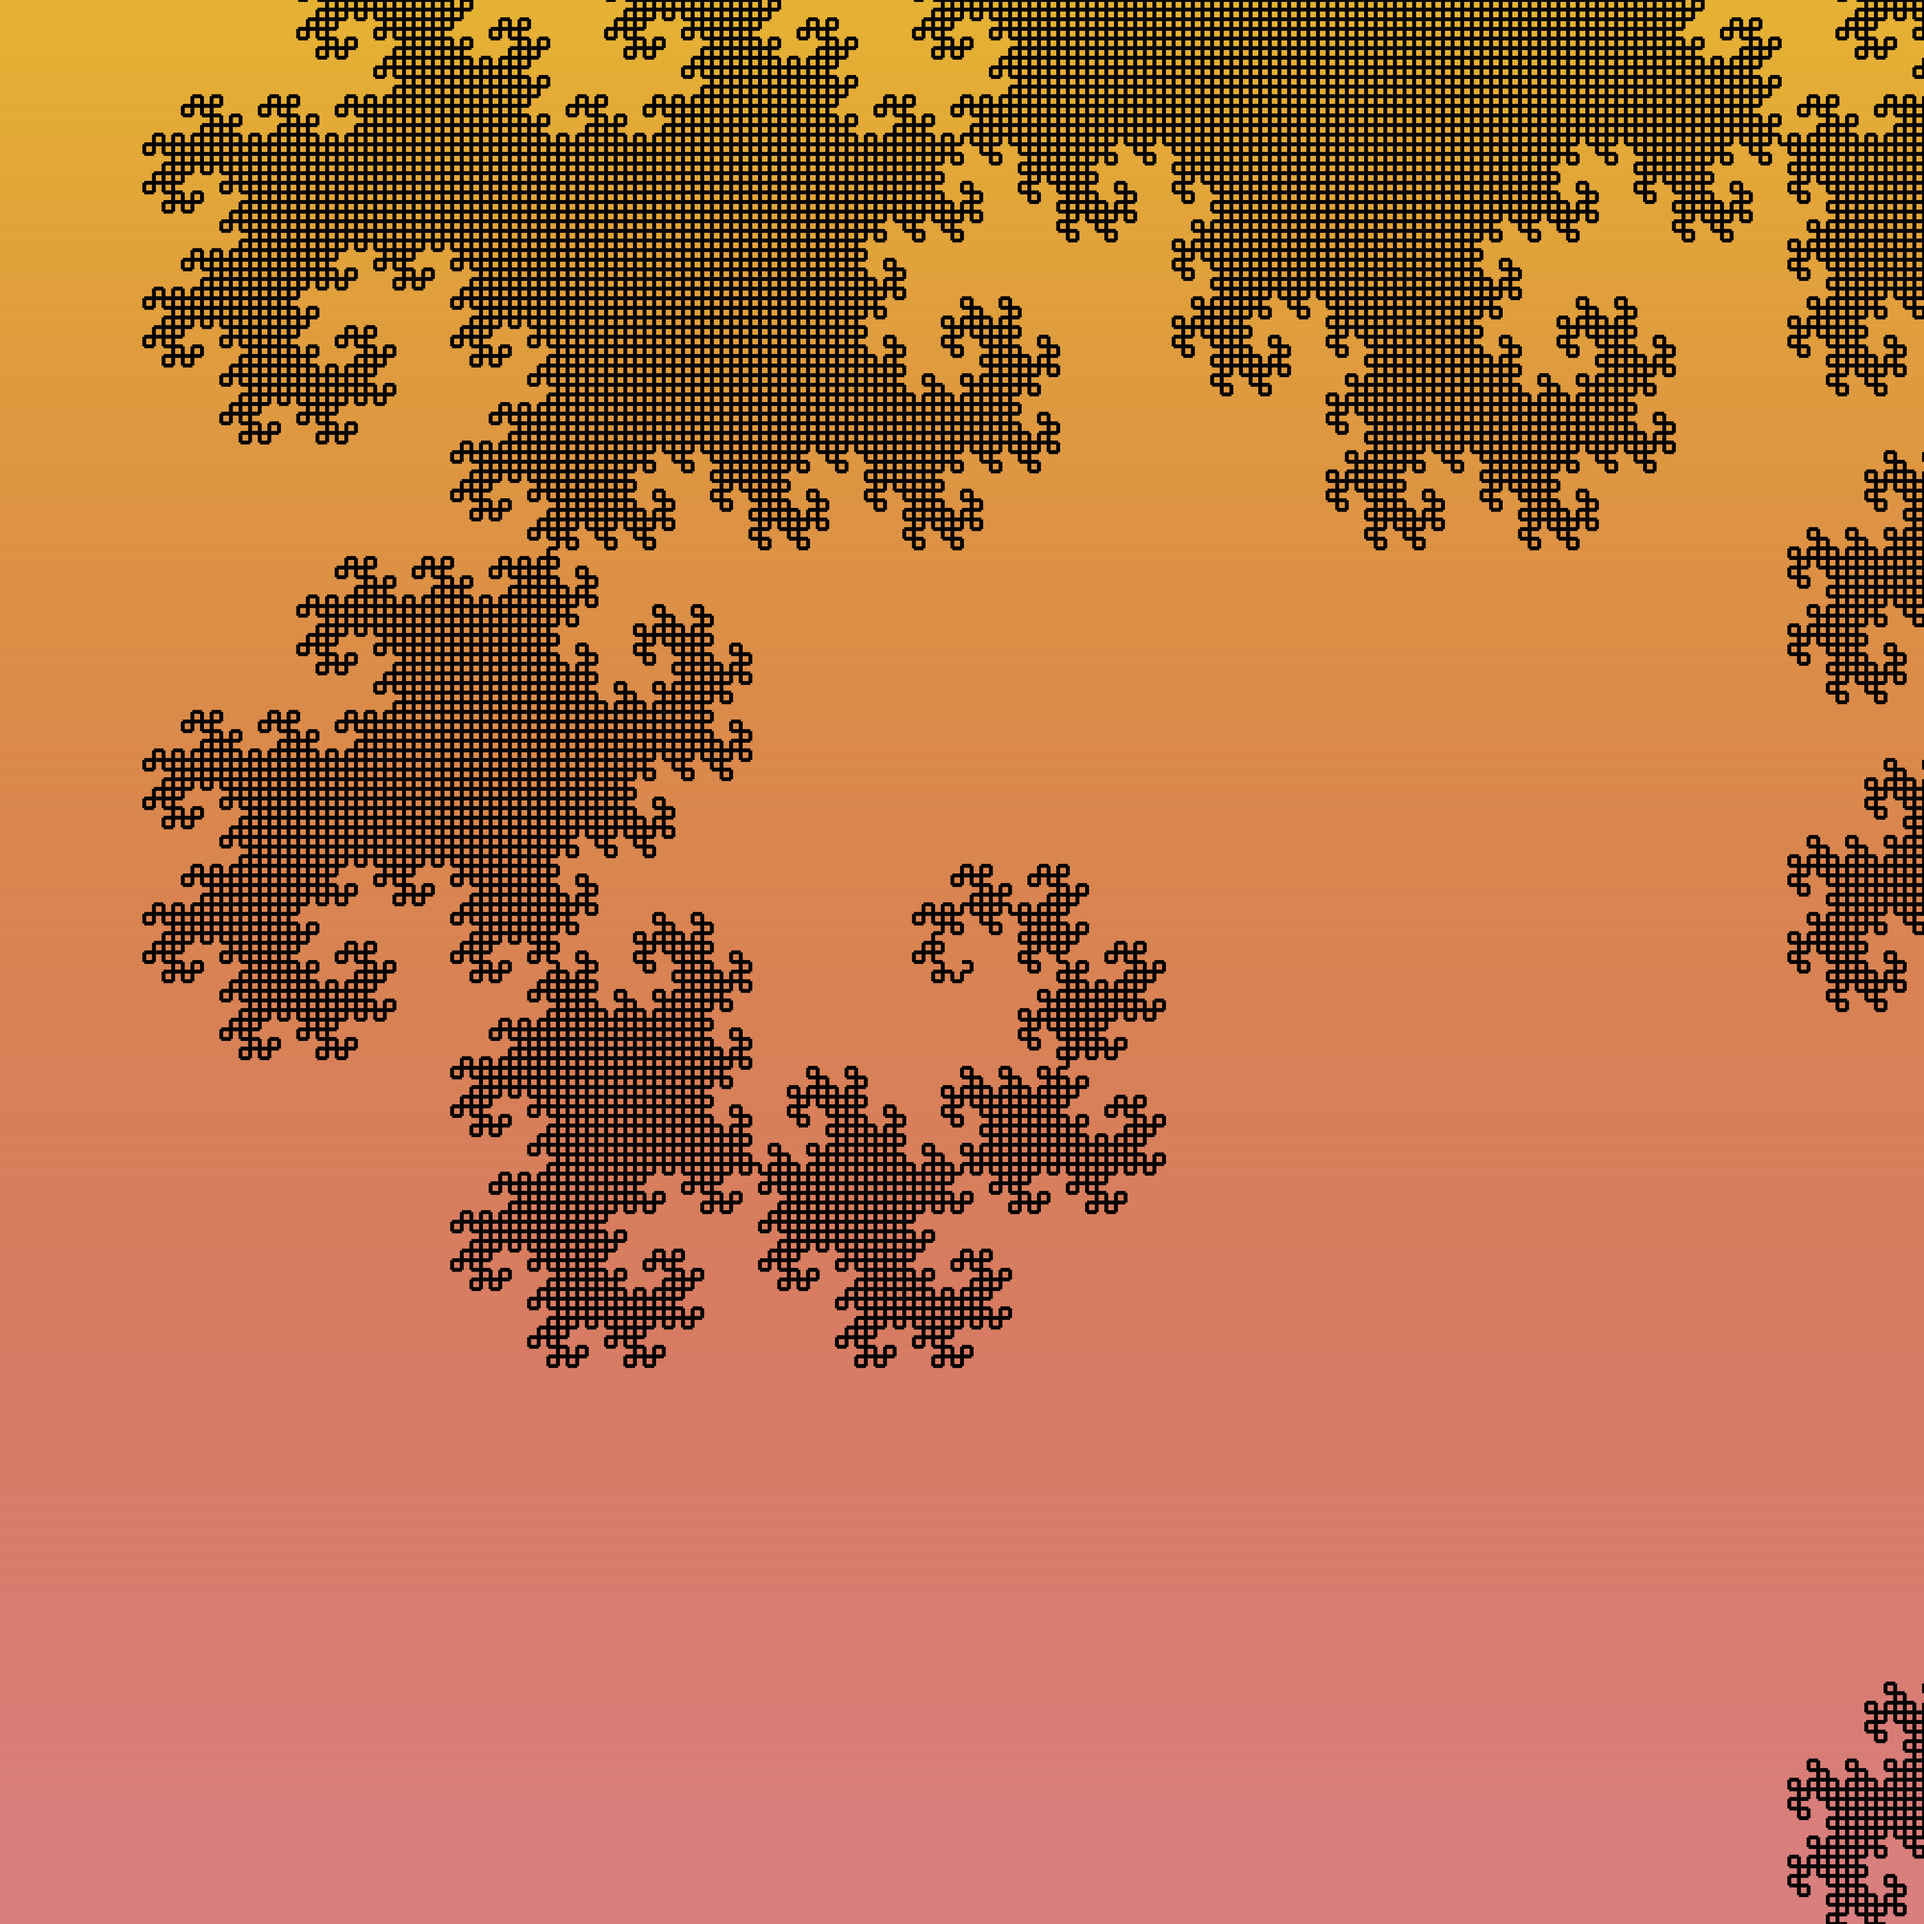
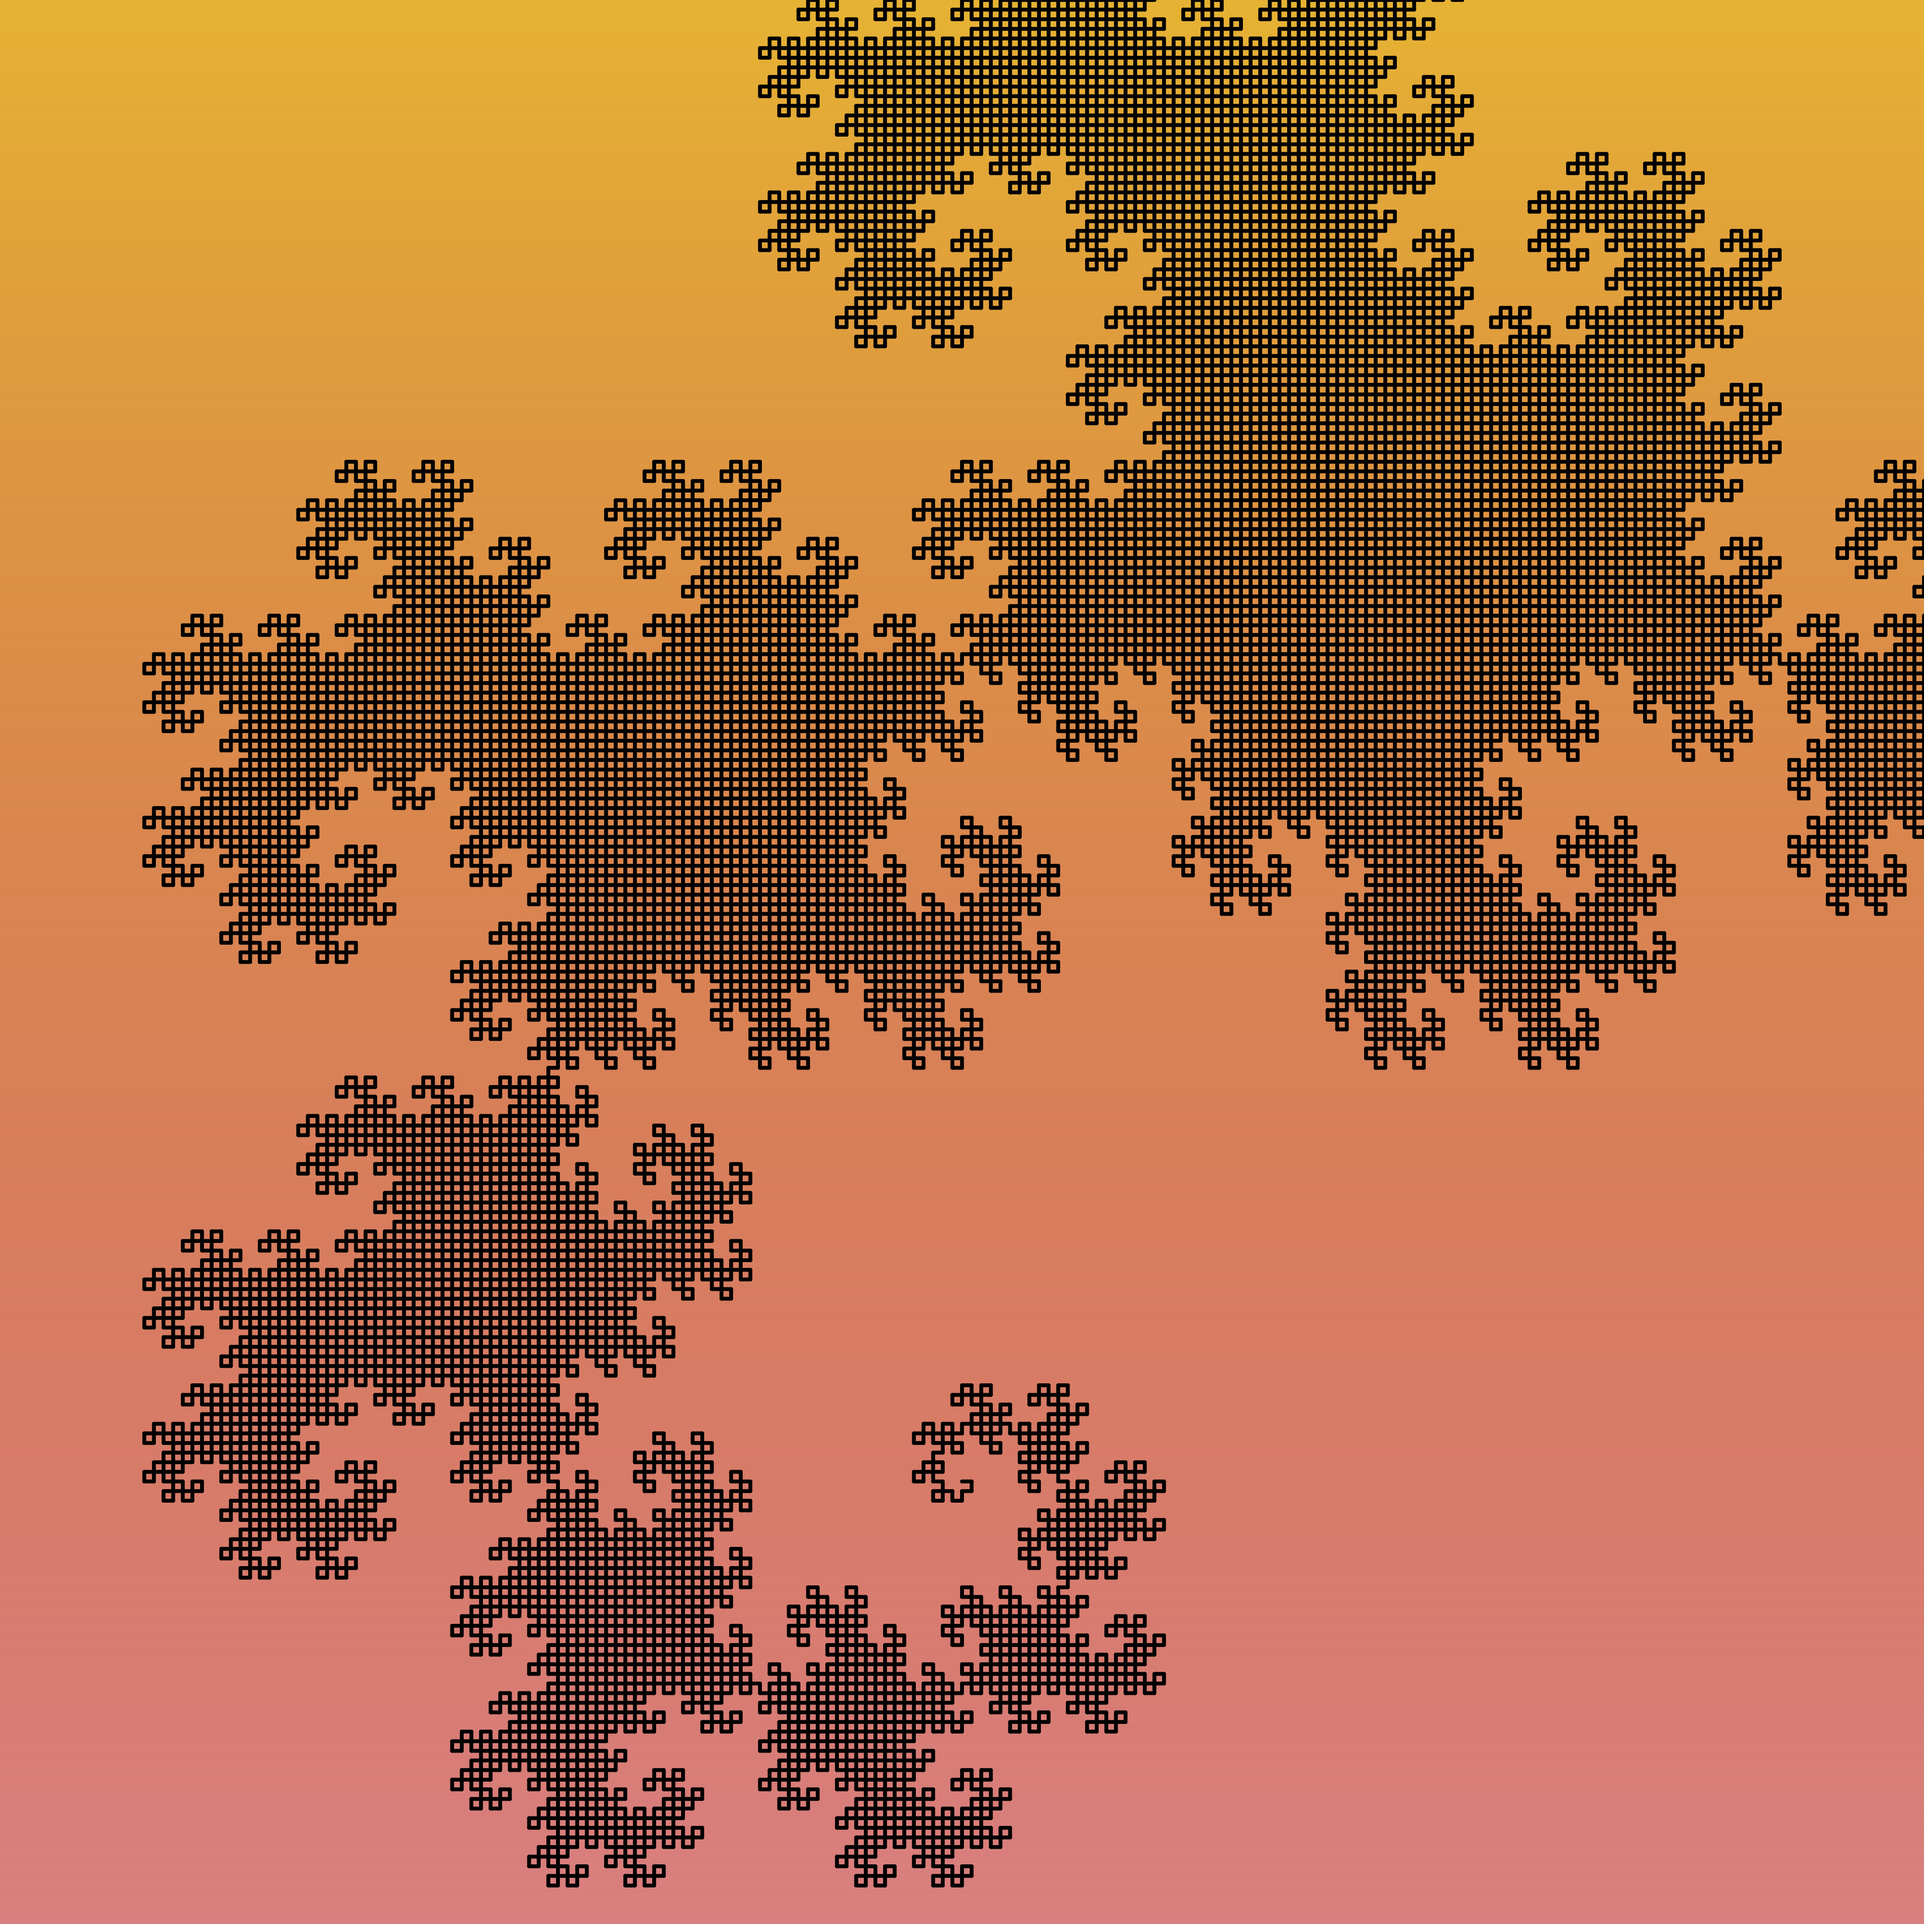
Allowing offsets for where the image is generated

Changed region(s): [[0.0625, 0.0, 1.0, 1.0], [0.9375, 0.875, 1.0, 1.0], [0.5938, 0.0, 0.6562, 0.0312]]

diff --git a/generate.py b/generate.py
@@ -1,10 +1,10 @@
+#!/usr/bin/env python
 # Author: Daniel Palm
 # Copyright 2018
 # 
 # Implementation of L-Systems, using a simple "Turtle" for drawing, and cairo for generating a png.
 # Based on LSystem definitions from wikipedia
 
-#!/usr/bin/env python
 
 import math
 import cairo
@@ -38,6 +38,8 @@ class Turtle:
             #print "draw at %f, %f" % (newpt[0], newpt[1])
             ctx.move_to(self.loc[0], self.loc[1])
             ctx.set_line_width(0.002)
+            ctx.set_line_cap(cairo.LINE_CAP_ROUND)
+            ctx.set_line_join(cairo.LINE_JOIN_ROUND)
             ctx.set_source_rgb(0,0,0)
             ctx.line_to(newpt[0], newpt[1])
             ctx.close_path()
@@ -113,7 +115,7 @@ class LSystem:
                 newinput += resp
         self.input = newinput
         print(self.input)
-    def drawPng(self, steps, width, height):
+    def drawPng(self, steps, width, height, origin=(0.5,0.5)):
         surface = cairo.ImageSurface(cairo.FORMAT_ARGB32, width, height)
         ctx = cairo.Context(surface)
         ctx.scale(width, height)  # Normalizing the canvas
@@ -125,7 +127,7 @@ class LSystem:
         ctx.rectangle(0, 0, 1, 1)  # Rectangle(x0, y0, x1, y1)
         ctx.set_source(pat)
         ctx.fill()
-        ctx.translate(0.5, 0.5)  # Changing the current transformation matrix
+        ctx.translate(origin[0], origin[1])  # Changing the current transformation matrix
         for i in range(0,steps-1):
             self.step(None)
         self.step(ctx)
@@ -134,22 +136,23 @@ class LSystem:
 
 striangle = LSystem("striangle")
 striangle.setAngle(120)
+striangle.setScale(0.01)
 striangle.bind("F", LSystem.FORWARD)
 striangle.bind("G", LSystem.FORWARD)
 striangle.addRule("F", "F-G+F+G-F")
 striangle.addRule("G", "GG")
 striangle.setStart("F-G-G")
-#striangle.drawPng(7, 4096, 4096)
+#striangle.drawPng(7, 4096, 4096, (0.2, 0.7))
 
 striangle2 = LSystem("striangle2")
 striangle2.setAngle(60)
-striangle2.setScale(0.002)
+striangle2.setScale(0.003)
 striangle2.bind("A", LSystem.FORWARD)
 striangle2.bind("B", LSystem.FORWARD)
 striangle2.addRule("A", "B-A-B")
 striangle2.addRule("B", "A+B+A")
 striangle2.setStart("A")
-#striangle2.drawPng(10, 4096, 4096)
+#striangle2.drawPng(9, 4096, 4096, (0.12, 0.2))
 
 dragon = LSystem("dragon")
 dragon.setAngle(90)
@@ -158,7 +161,7 @@ dragon.addRule("X", "X+YF+")
 dragon.addRule("Y", "-FX-Y")
 dragon.setStart("FX")
 dragon.setScale(0.005)
-dragon.drawPng(18, 4096, 4096)
+dragon.drawPng(16, 4096, 4096, (0.5, 0.77))
 
 plant = LSystem("plant")
 plant.setAngle(25)
